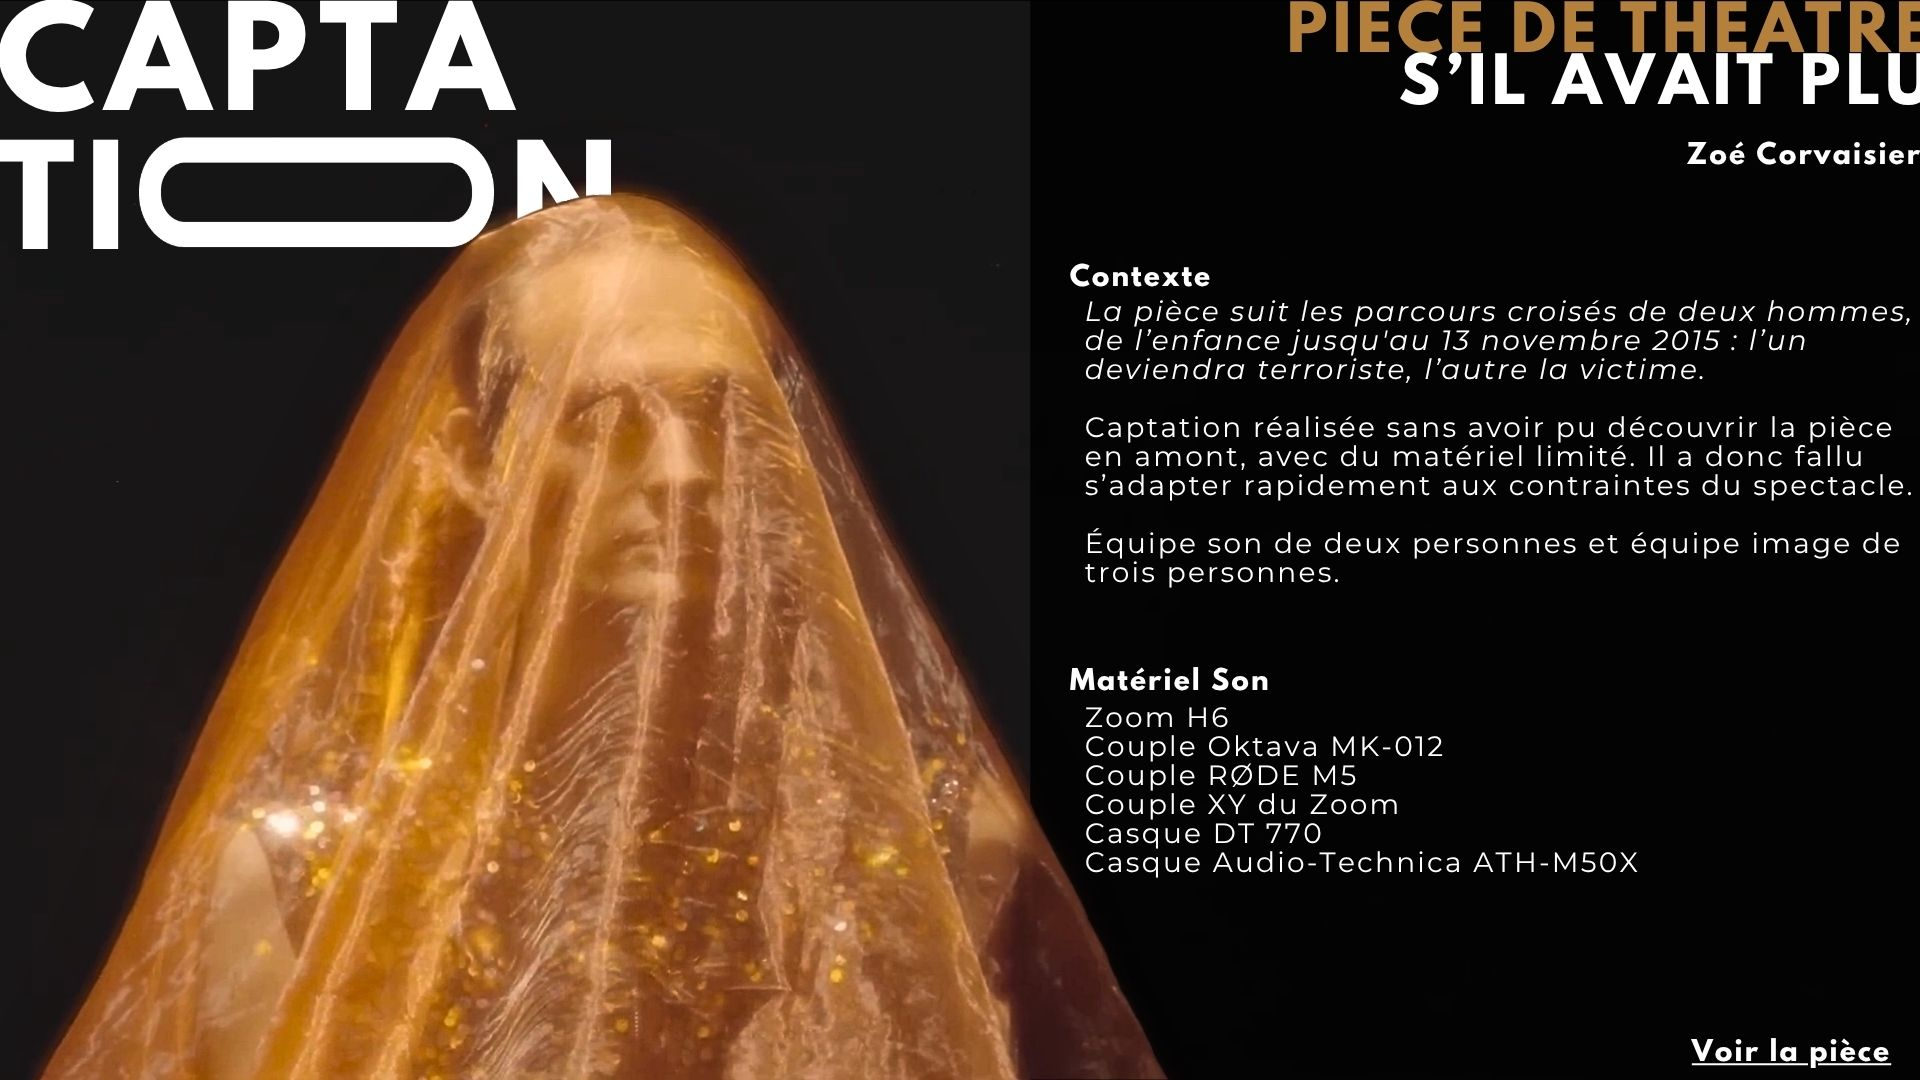
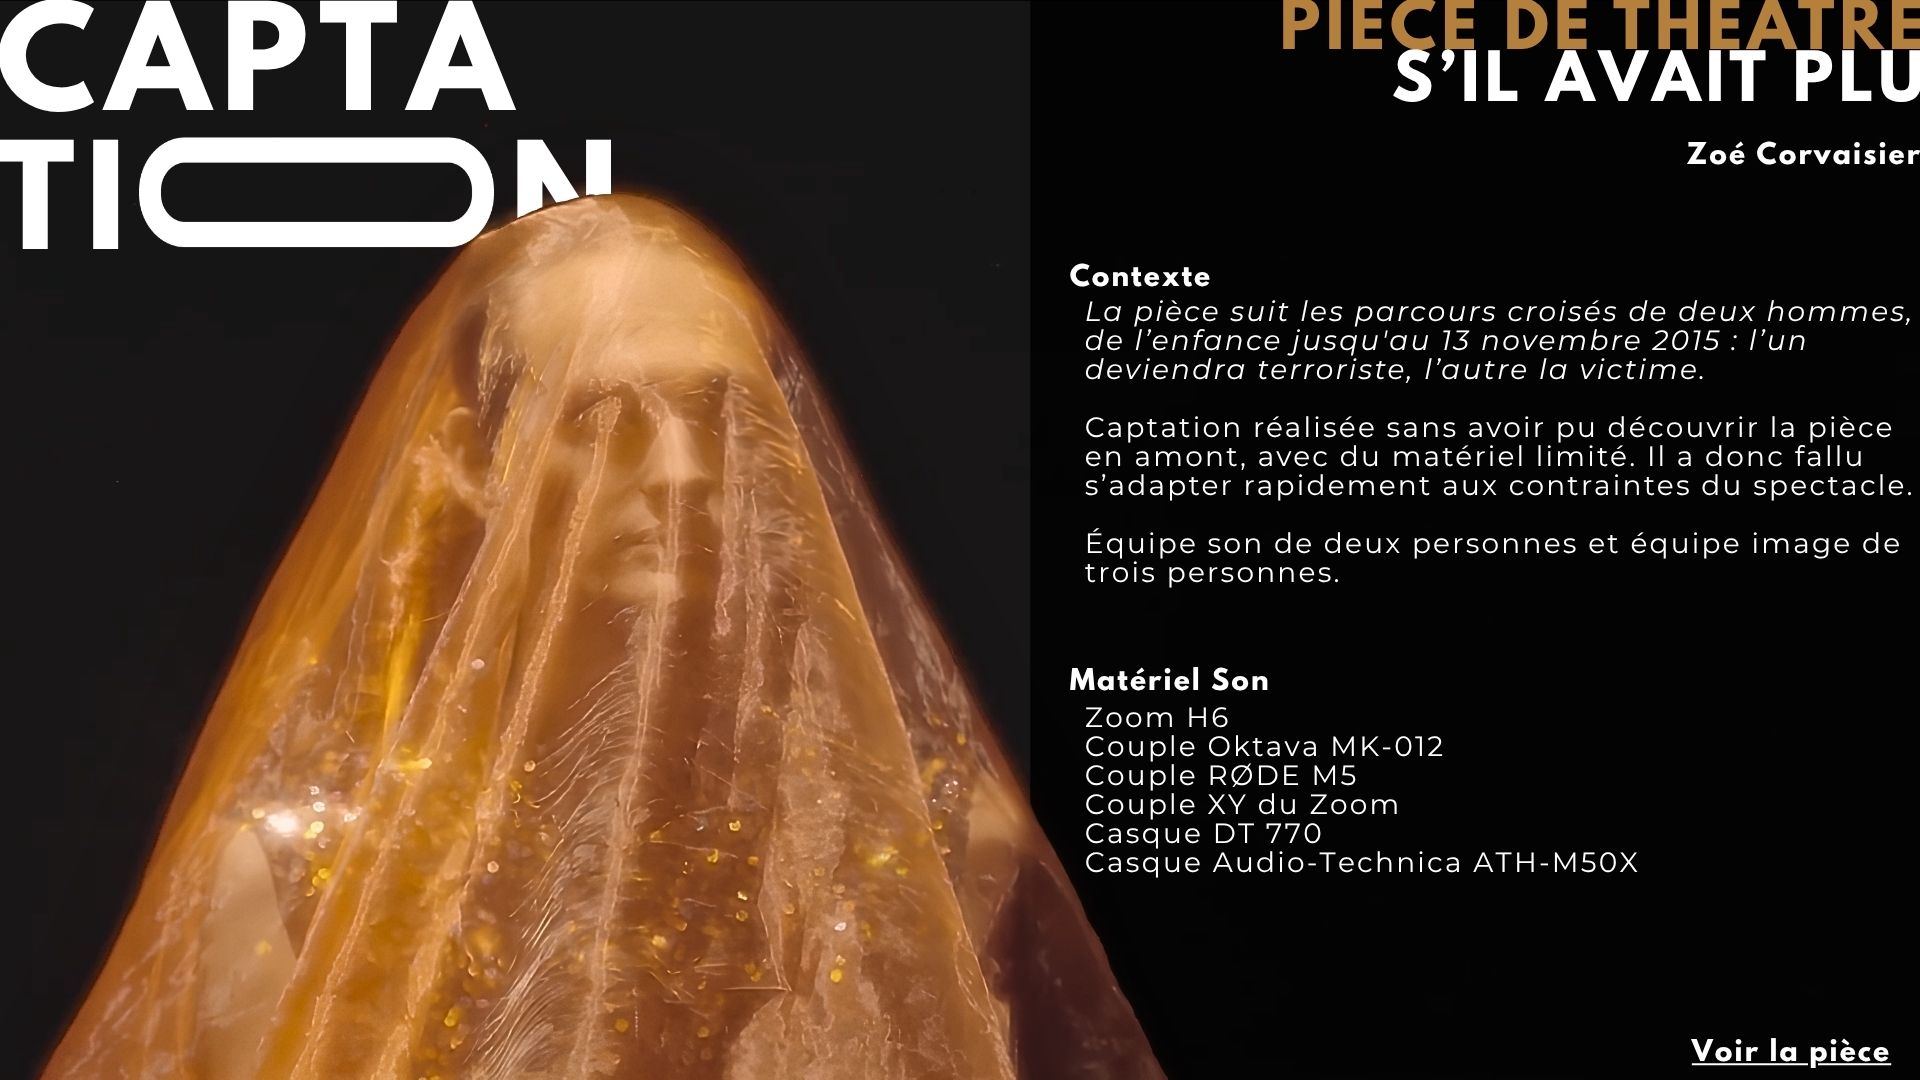
17 lien

Changed region(s): [[0.6562, 0.0, 1.0, 0.0917]]

diff --git a/index.html b/index.html
@@ -263,6 +263,15 @@
 <!-- IMAGE 17 -->
 <div class="slide">
   <img src="images/image17.jpg" alt="Projet 17">
+
+  <a
+    class="invisible-link"
+    href="https://youtu.be/QWAB6rJp-Zw"
+    target="_blank"
+    rel="noopener noreferrer"
+    aria-label="Voir le projet 17">
+  </a>
+
 </div>
 
 
